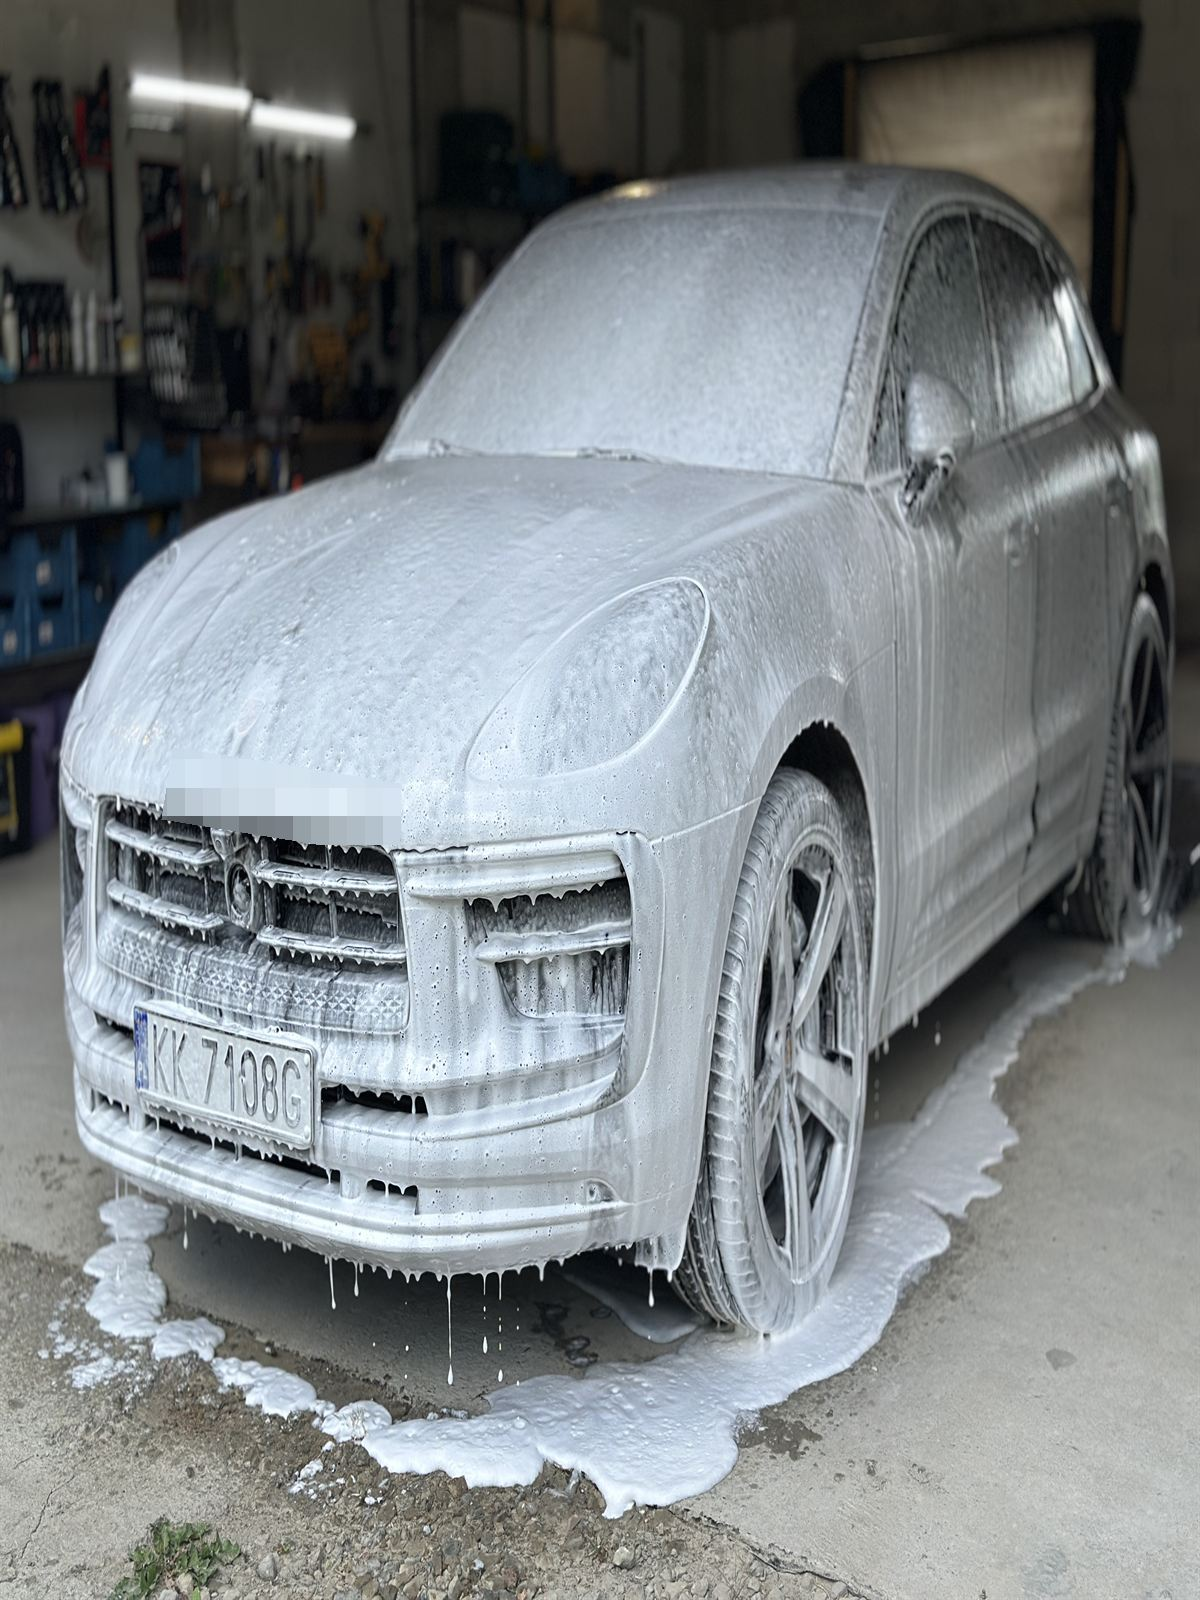
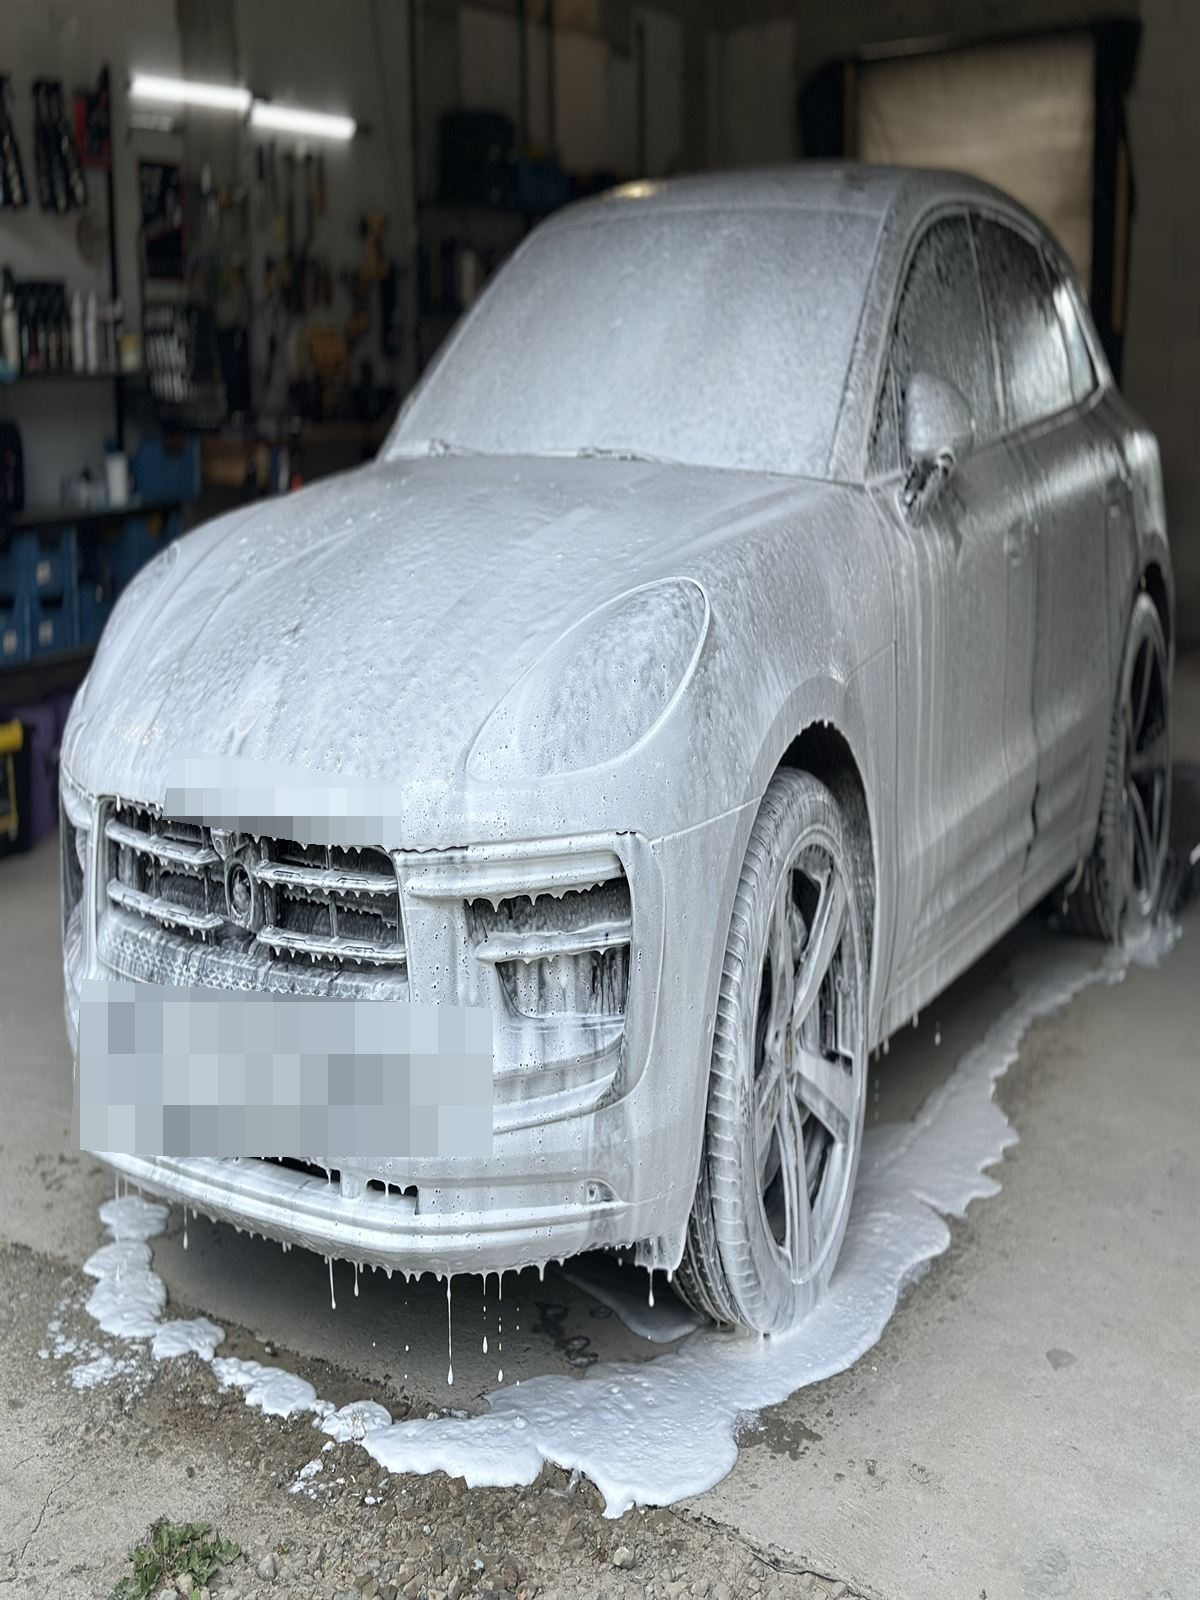
Panel: stabilne id DndContext w Metamorfozach (fix hydration); mobile hero na pelna szerokosc.

Changed region(s): [[0.0617, 0.5938, 0.4317, 0.75]]

diff --git a/apps/strona/components/magazyn/metamorfozy-client.tsx b/apps/strona/components/magazyn/metamorfozy-client.tsx
@@ -1,6 +1,6 @@
 "use client";
 
-import { useState } from "react";
+import { useId, useState } from "react";
 import { useRouter } from "next/navigation";
 import Image from "next/image";
 import {
@@ -168,6 +168,61 @@ function SortableParaCard({
   );
 }
 
+/**
+ * Lista par jednego tematu z drag-and-drop. Osobny komponent = `useId()`
+ * per DndContext (oficjalny fix hydration mismatch dnd-kit / Next.js).
+ */
+function TemaParySortable({
+  pary,
+  sensors,
+  onChangePary,
+}: {
+  pary: MetamorfozyPara[];
+  sensors: ReturnType<typeof useSensors>;
+  onChangePary: (next: MetamorfozyPara[]) => void;
+}) {
+  const dndId = useId();
+
+  function onDragEnd(event: DragEndEvent) {
+    const { active, over } = event;
+    if (!over || active.id === over.id) return;
+    const oldIndex = pary.findIndex((p) => p.id === active.id);
+    const newIndex = pary.findIndex((p) => p.id === over.id);
+    if (oldIndex === -1 || newIndex === -1) return;
+    onChangePary(reorderPary(arrayMove(pary, oldIndex, newIndex)));
+  }
+
+  return (
+    <DndContext
+      id={dndId}
+      sensors={sensors}
+      collisionDetection={closestCenter}
+      onDragEnd={onDragEnd}
+    >
+      <SortableContext
+        items={pary.map((p) => p.id)}
+        strategy={verticalListSortingStrategy}
+      >
+        <div className="flex flex-col gap-4">
+          {pary.map((para, i) => (
+            <SortableParaCard
+              key={para.id}
+              para={para}
+              index={i}
+              onChange={(next) =>
+                onChangePary(pary.map((p) => (p.id === next.id ? next : p)))
+              }
+              onRemove={() =>
+                onChangePary(reorderPary(pary.filter((p) => p.id !== para.id)))
+              }
+            />
+          ))}
+        </div>
+      </SortableContext>
+    </DndContext>
+  );
+}
+
 export function MetamorfozyClient({ initial }: { initial: MetamorfozyData }) {
   const router = useRouter();
   const history = useMagazynHistory<MetamorfozyData>(initial);
@@ -251,15 +306,6 @@ export function MetamorfozyClient({ initial }: { initial: MetamorfozyData }) {
         const setPary = (next: MetamorfozyPara[]) =>
           patchTemat(temat.id, { pary: next });
 
-        function onDragEnd(event: DragEndEvent) {
-          const { active, over } = event;
-          if (!over || active.id === over.id) return;
-          const oldIndex = sortedPary.findIndex((p) => p.id === active.id);
-          const newIndex = sortedPary.findIndex((p) => p.id === over.id);
-          if (oldIndex === -1 || newIndex === -1) return;
-          setPary(reorderPary(arrayMove(sortedPary, oldIndex, newIndex)));
-        }
-
         return (
           <Fieldset
             key={temat.id}
@@ -303,32 +349,11 @@ export function MetamorfozyClient({ initial }: { initial: MetamorfozyData }) {
               okładka kafelka na stronie; wszystkie pary widać w podglądzie.
             </p>
 
-            <DndContext
+            <TemaParySortable
+              pary={sortedPary}
               sensors={sensors}
-              collisionDetection={closestCenter}
-              onDragEnd={onDragEnd}
-            >
-              <SortableContext
-                items={sortedPary.map((p) => p.id)}
-                strategy={verticalListSortingStrategy}
-              >
-                <div className="flex flex-col gap-4">
-                  {sortedPary.map((para, i) => (
-                    <SortableParaCard
-                      key={para.id}
-                      para={para}
-                      index={i}
-                      onChange={(next) =>
-                        setPary(sortedPary.map((p) => (p.id === next.id ? next : p)))
-                      }
-                      onRemove={() =>
-                        setPary(reorderPary(sortedPary.filter((p) => p.id !== para.id)))
-                      }
-                    />
-                  ))}
-                </div>
-              </SortableContext>
-            </DndContext>
+              onChangePary={setPary}
+            />
 
             <div className="flex items-center justify-between gap-3">
               <Button

diff --git a/apps/strona/components/sections/hero.tsx b/apps/strona/components/sections/hero.tsx
@@ -85,23 +85,25 @@ export function Hero({
   return (
     <section id="hero" aria-label="Detailing Łącko" className="relative isolate">
       {/* ============ MOBILE (< lg) — projekt pod telefon ============ */}
-      {/* Zdjęcie jest kafelkiem NAD treścią (nie pełnoekranowym tłem pod nią):
-          plik ma natywną proporcję 3:4 (1200×1600, hero-mobile.jpg) — box
-          o aspect-[3/4] pokazuje go w CAŁOŚCI, bez przycinania. Szerokość
-          celowo ograniczona do 50% (max 200px), nie pełny ekran — mniejsze,
-          wyraźnie „oprawione" zdjęcie zamiast dominującego tła. Bez photo
-          pod spodem nie trzeba scrimu pod kontrast: treść leży na zwykłym
-          bg-hero-scrim. Całość (kafelek + treść) trzyma się jednego bloku
-          z mt-auto, więc siedzi przy dole ekranu, tak jak poprzednio. */}
+      {/* Zdjęcie na PEŁNĄ szerokość hero (nie mały kafelek — to psuło kadr,
+          wciskając szeroki podmiot/auto w wąski pionowy pasek i wyglądało
+          na spłaszczone). Plik ma natywną proporcję 3:4 (1200×1600,
+          hero-mobile.jpg) — box aspect-[3/4] o pełnej szerokości ekranu
+          pokazuje go w CAŁOŚCI, bez przycinania i bez zniekształcenia.
+          Konsekwencja: przy pełnej szerokości i natywnym 3:4 zdjęcie ma
+          ~520px wysokości, więc hero NIE mieści się już w jednym ekranie
+          (świadomy kompromis — priorytetem jest niezniekształcone zdjęcie,
+          nie zero-scroll). Zdjęcie leży POZA px-5 (pełny bleed), treść
+          poniżej zostaje w swoim padded bloku. */}
       <div className="relative flex min-h-svh flex-col overflow-hidden bg-hero-scrim lg:hidden">
-        <div className="relative mt-auto flex flex-col px-5 pt-6 pb-[calc(5.5rem+env(safe-area-inset-bottom))]">
-          <div className="relative aspect-[3/4] w-[50%] max-w-[190px] shrink-0 overflow-hidden rounded-2xl shadow-xl">
+        <div className="relative mt-auto flex flex-col pb-[calc(5.5rem+env(safe-area-inset-bottom))]">
+          <div className="relative aspect-[3/4] w-full shrink-0 overflow-hidden">
             <HeroPicture images={images} imgClassName="object-cover object-center" />
           </div>
-
-          <h1 className="hero-enter mt-5 font-serif text-[2.6rem] leading-[1.05] font-medium text-balance text-hero-foreground">
-            {headline}
-          </h1>
+          <div className="flex flex-col px-5 pt-6">
+            <h1 className="hero-enter font-serif text-[2.6rem] leading-[1.05] font-medium text-balance text-hero-foreground">
+              {headline}
+            </h1>
           <p className="hero-enter mt-3 text-base text-pretty text-hero-muted [animation-delay:90ms]">
             {lead}
           </p>
@@ -143,6 +145,7 @@ export function Hero({
             cennik bez „od" · ocena plamy przed przyjazdem · nie wyszło = nie
             płacisz
           </p>
+          </div>
         </div>
       </div>
 
